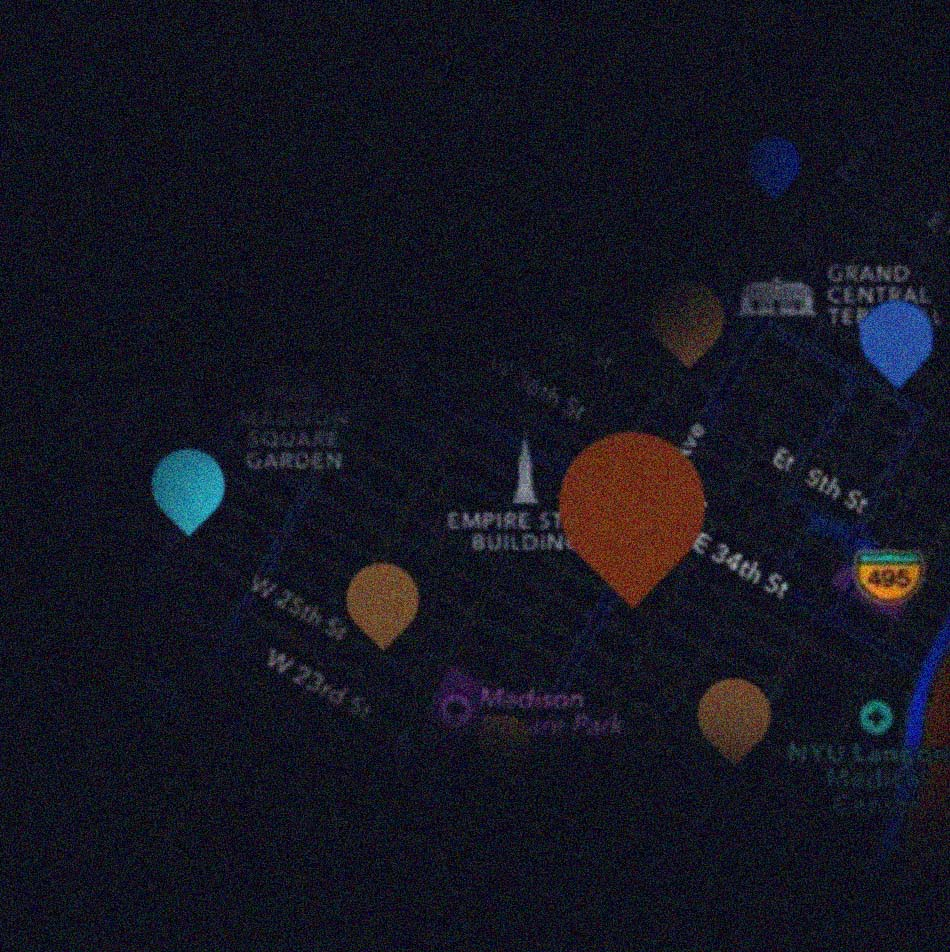
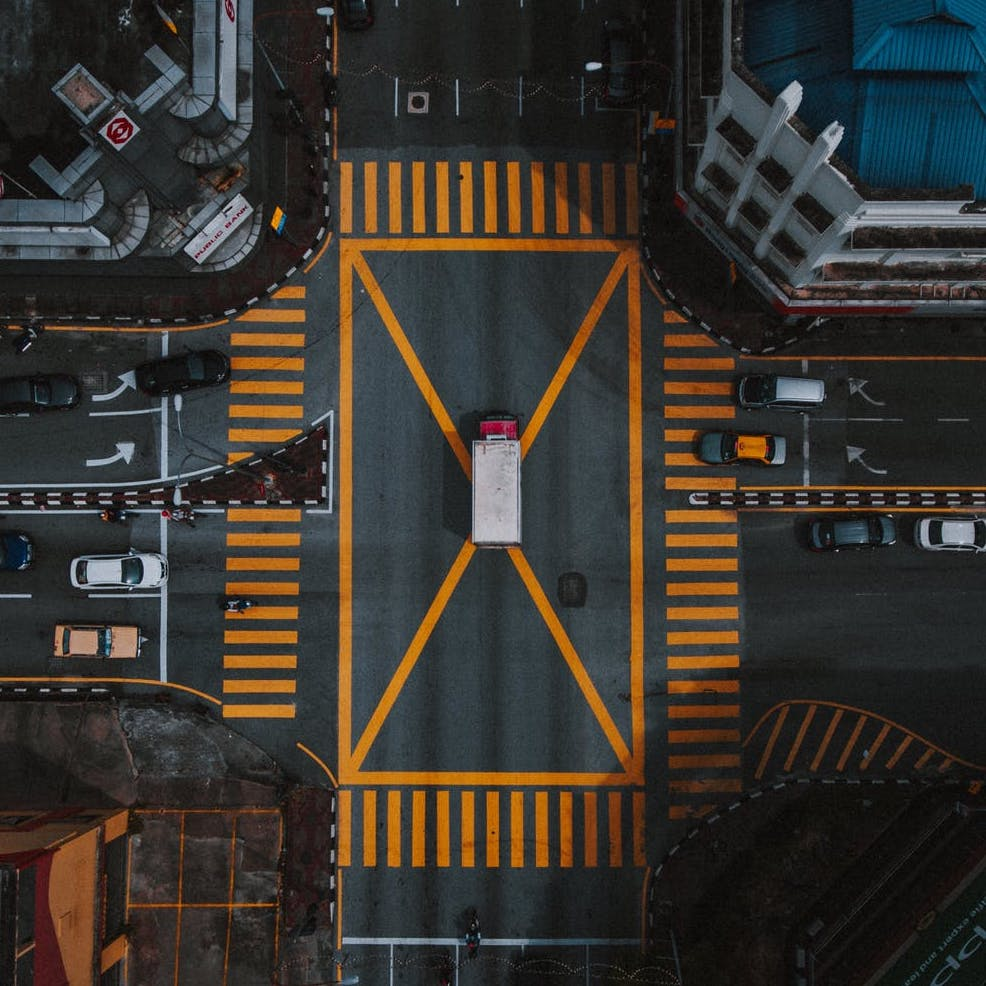
Changes

diff --git a/index.html b/index.html
@@ -331,7 +331,7 @@
 
 
                                             <div class="row" style="margin-bottom:30px;margin-top:60px">
-                                                <div class="large-6 medium-6 tab-6 mob-12" style="padding:5px;">
+                                                <div class="large-12 medium-12 tab-12 mob-12" style="padding:5px;">
                                                     <a class="nobefore noborder" style="display:block;cursor: ne-resize" href="./projects/HCI/Zenbo Class.html" data-aos="fade" data-aos-anchor-placement="center-center" data-aos-duration="450">
                                                         <blockquote class="tile projecttile" style="--tilebackgroundimage:url('../images/old/projects/ZenboClassroomTile1.jpg');
                                                         --tilebackgroundimagedefault:url('../images/old/tiledefaultbackgroundimage.jpg');
@@ -344,25 +344,27 @@
                                                     </a>
 
                                                 </div>
-                                                <div class="large-6 medium-6 tab-6 mob-12" style="padding:5px;">
+                                                <div class="large-12 medium-12 tab-12 mob-12" style="padding:5px;">
                                                     <a class="nobefore noborder" style="display:block;cursor: ne-resize" href="./projects/HCI/MOOC Feedback Visualization.html" data-aos="fade" data-aos-anchor-placement="center-center" data-aos-duration="450">
                                                         <blockquote class="tile projecttile" style="--tilebackgroundimage:url('../images/old/projects/MOOCFeedbackProjectTile1.jpg');
                                                         --tilebackgroundimagedefault:url('../images/old/tiledefaultbackgroundimage.jpg');
                                                         --textcolor:#ffffff;">
                                                             <p class="tileheading">
-                                                                MOOC Feedback Visualization.
+                                                                MOOC Feedback <br>Visualization.
                                                             </p>
                                                             <cite class="nobefore">MOOC quality <br>feedback visualization.</cite>
                                                         </blockquote>
                                                     </a>
                                                 </div>
-                                                <div class="large-4 medium-4 tab-6 mob-12" style="padding:5px;">
+                                                <div class="large-12 medium-12 tab-12 mob-12" style="padding:5px;">
                                                     <a class="nobefore noborder" style="display:block;cursor: ne-resize" href="./projects/HCI/Gazinteract.html" data-aos="fade" data-aos-anchor-placement="center-center" data-aos-duration="450">
-                                                        <blockquote class="tile">
+                                                        <blockquote class="tile projecttile" style="--tilebackgroundimage:url('../images/old/projects/GazinteractTile.jpg');
+                                                        --tilebackgroundimagedefault:url('../images/old/tiledefaultbackgroundimage.jpg');
+                                                        --textcolor:#ffffff;">
                                                             <p class="tileheading">
                                                                 Gazinteract.
                                                             </p>
-                                                            <cite class="nobefore">Determining a non-tangible eye-gaze based screen interaction.</cite>
+                                                            <cite class="nobefore">Determining a non-tangible <br>eye-gaze based screen interaction.</cite>
                                                         </blockquote>
                                                     </a>
                                                 </div>

diff --git a/projects/HCI/MOOC Feedback Visualization.html b/projects/HCI/MOOC Feedback Visualization.html
@@ -94,7 +94,7 @@
             <main class="row content__page">
 
                 <article class="column large-full entry format-standard">
-                    <blockquote class="tile projecttile" style="--tilebackgroundimage:url('../projects/HCI/Resources/MOOC Feedback/MOOCFeedbackProjectTile.jpg');
+                    <blockquote class="tile projecttile roundborderimage" style="--tilebackgroundimage:url('../projects/HCI/Resources/MOOC Feedback/MOOCFeedbackProjectTile.jpg');
                     --tilebackgroundimagedefault:url('../projects/HCI/Resources/MOOC Feedback/MOOCFeedbackProjectTile.jpg');
                     --textcolor:#ffffff;min-height:50vh">
                         <p class="tileheading" style="color:white; font-family: Regular;font-size:4.5em; bottom:0px;position:absolute;margin-bottom:10px;padding-bottom: 10px;min-height:100px">
@@ -287,7 +287,7 @@
                                         <div>
                                             <p><br><br></p>
                                         </div>
-                                        <span class="blue">REFERENCES</span><br><br>
+                                        <h3 class="midlinehead">References</h3>
                                         <span class="projecttextreferences">
                                             1. Coetzee, Derrick, Armando Fox, Marti A. Hearst, and Björn Hartmann. "Should your MOOC forum use a reputation system?." In Proceedings of the 17th ACM conference on Computer supported cooperative work & social computing, pp. 1176-1187. ACM, 2014.
                                             <br>2. Goldman, Dan B., Chris Gonterman, Brian Curless, David Salesin, and Steven M. Seitz. "Video object annotation, navigation, and composition." In Proceedings of the 21st annual ACM symposium on User interface

diff --git a/projects/HCI/Zenbo Class.html b/projects/HCI/Zenbo Class.html
@@ -94,7 +94,7 @@
             <main class="row content__page">
 
                 <article class="column large-full entry format-standard">
-                    <blockquote class="tile projecttile" style="--tilebackgroundimage:url('../projects/HCI/Resources/zenbo class/main.gif');
+                    <blockquote class="tile projecttile roundborderimage" style="--tilebackgroundimage:url('../projects/HCI/Resources/zenbo class/main.gif');
                                                         --tilebackgroundimagedefault:url('../projects/HCI/Resources/zenbo class/main.gif');
                                                         --textcolor:#ffffff;min-height:50vh">
                         <p class="tileheading" style="color:white; font-family: Regular;font-size:5em; bottom:0px;position:absolute;margin-bottom:10px;padding-bottom: 10px;min-height:100px">
